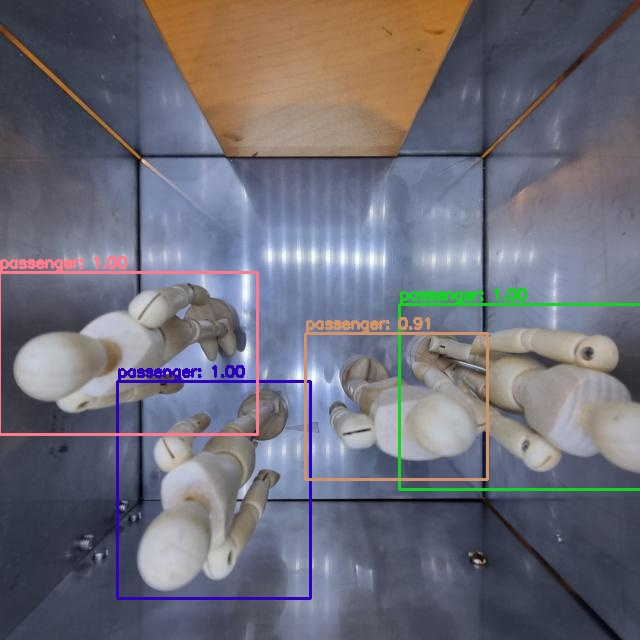
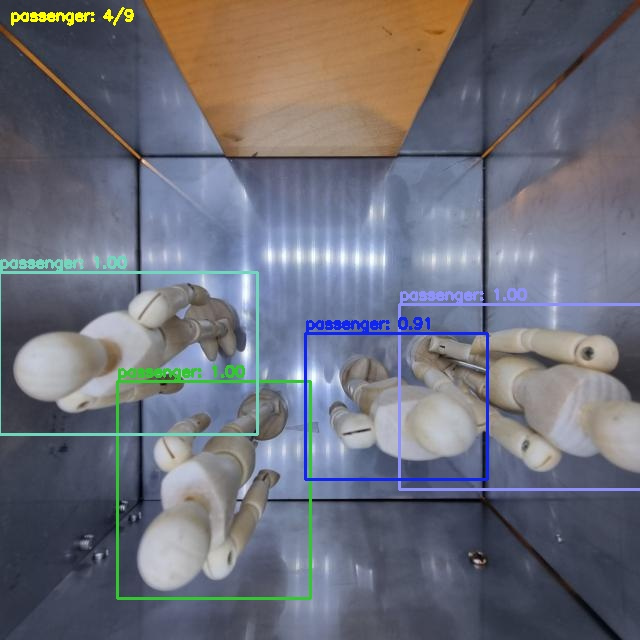
[ref] update code

Changed region(s): [[0.0, 0.375, 1.0, 0.9375], [0.0, 0.0, 0.2188, 0.0625]]

diff --git a/yolov4-passenger-video.py b/yolov4-passenger-video.py
@@ -2,6 +2,9 @@ import cv2
 import numpy as np
 # import DeviceManager
 
+MAX_PASSENGER_NUM = 9
+
+
 # YOLOv4 모델과 가중치 파일 경로
 model_path = "yolov4-passenger-tiny_last.weights"
 config_path = "yolov4-passenger-tiny.cfg"
@@ -17,12 +20,8 @@ net = cv2.dnn.readNet(model_path, config_path)
 # net.setPreferableBackend(cv2.dnn.DNN_BACKEND_CUDA)
 # net.setPreferableTarget(cv2.dnn.DNN_TARGET_CUDA)
 
-# 클래스 이름 파일 경로
-classes_file = "passenger.names"
-
-# 클래스 이름 로드
-with open(classes_file, "r") as f:
-    classes = [line.strip() for line in f.readlines()]
+# 클래스 이름
+classes = ["passenger"]
 
 # 이미지 파일 경로
 
@@ -89,18 +88,12 @@ while True:
     indexes = cv2.dnn.NMSBoxes(boxes, confidences, 0.2, 0.5)
 
     passengerAreaClor = (0, 0, 255)
-    if len(indexes) >= 1:
-        # DeviceManager.fanStart()
-        print(indexes)
-        for i in indexes.flatten():
-            x, y, w, h = boxes[i]
-            color = (0, 255, 128)
-            cv2.rectangle(frame, (x, y), (x + w, y + h), color, 2)
-            text = f"{classes[class_ids[i]]}: {confidences[i]:.2f}"
-            cv2.putText(frame, text, (x, y - 5), cv2.FONT_HERSHEY_SIMPLEX, 0.5, color, 2)
-    else:
-        # DeviceManager.fanStop()
-        pass
+    for i in indexes.flatten():
+        x, y, w, h = boxes[i]
+        color = (0, 255, 128)
+        cv2.rectangle(frame, (x, y), (x + w, y + h), color, 2)
+        text = f"{classes[class_ids[i]]}: {confidences[i]:.2f}"
+        cv2.putText(frame, text, (x, y - 5), cv2.FONT_HERSHEY_SIMPLEX, 0.5, color, 2)
 
     # 결과 이미지 출력
     frame = cv2.resize(frame, (800, 480))
